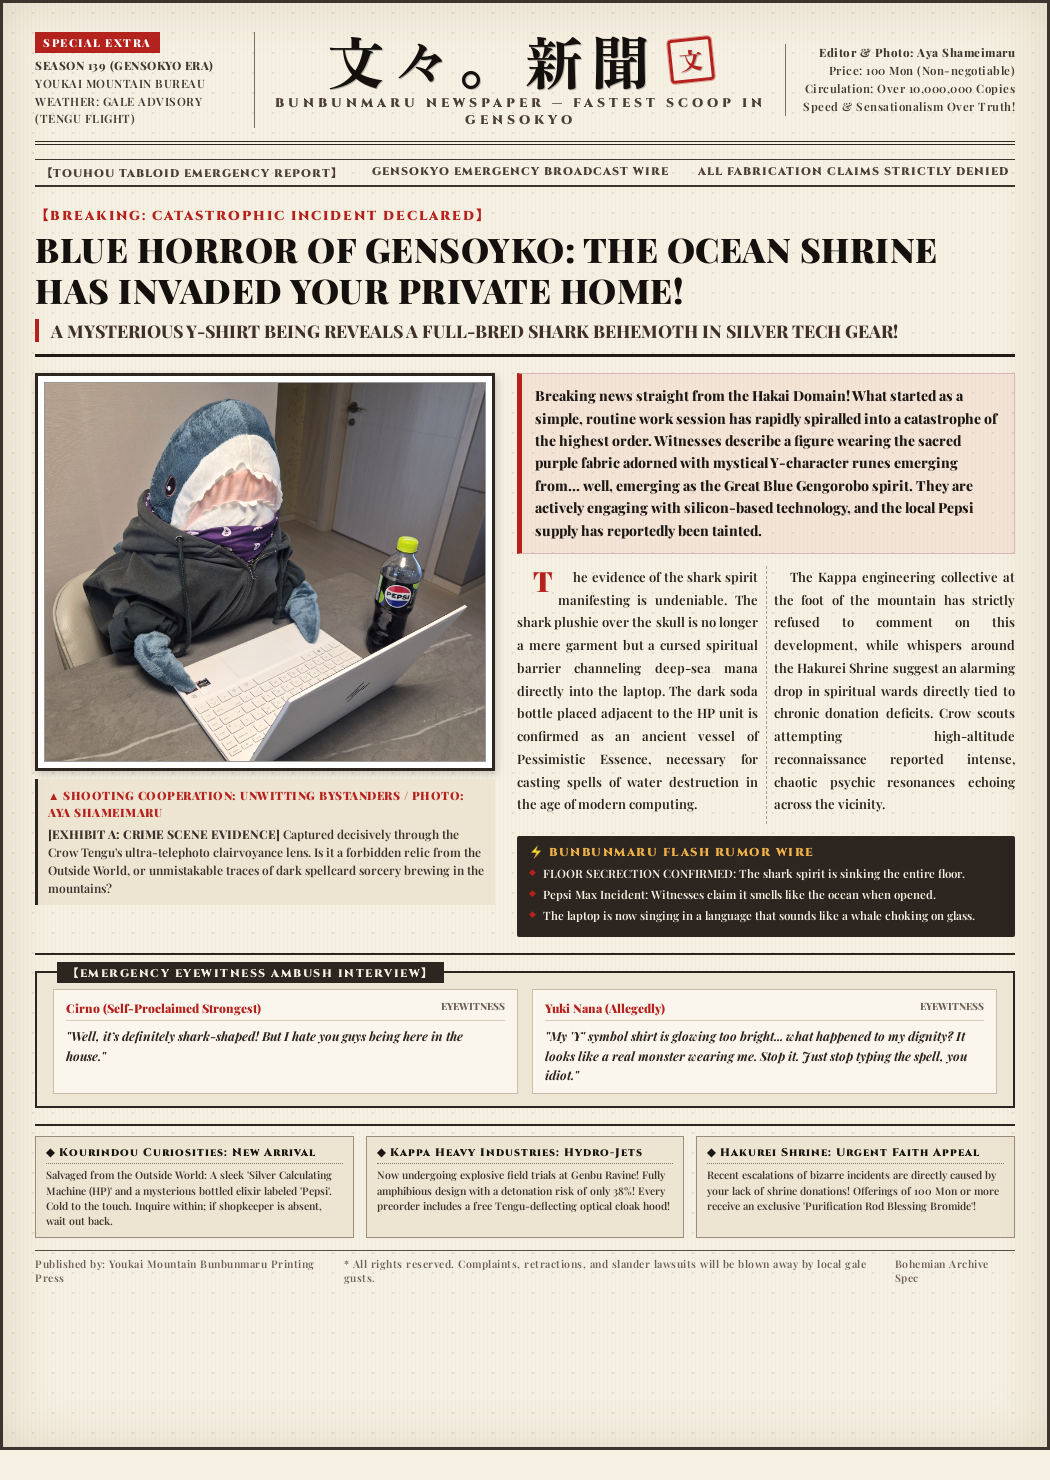
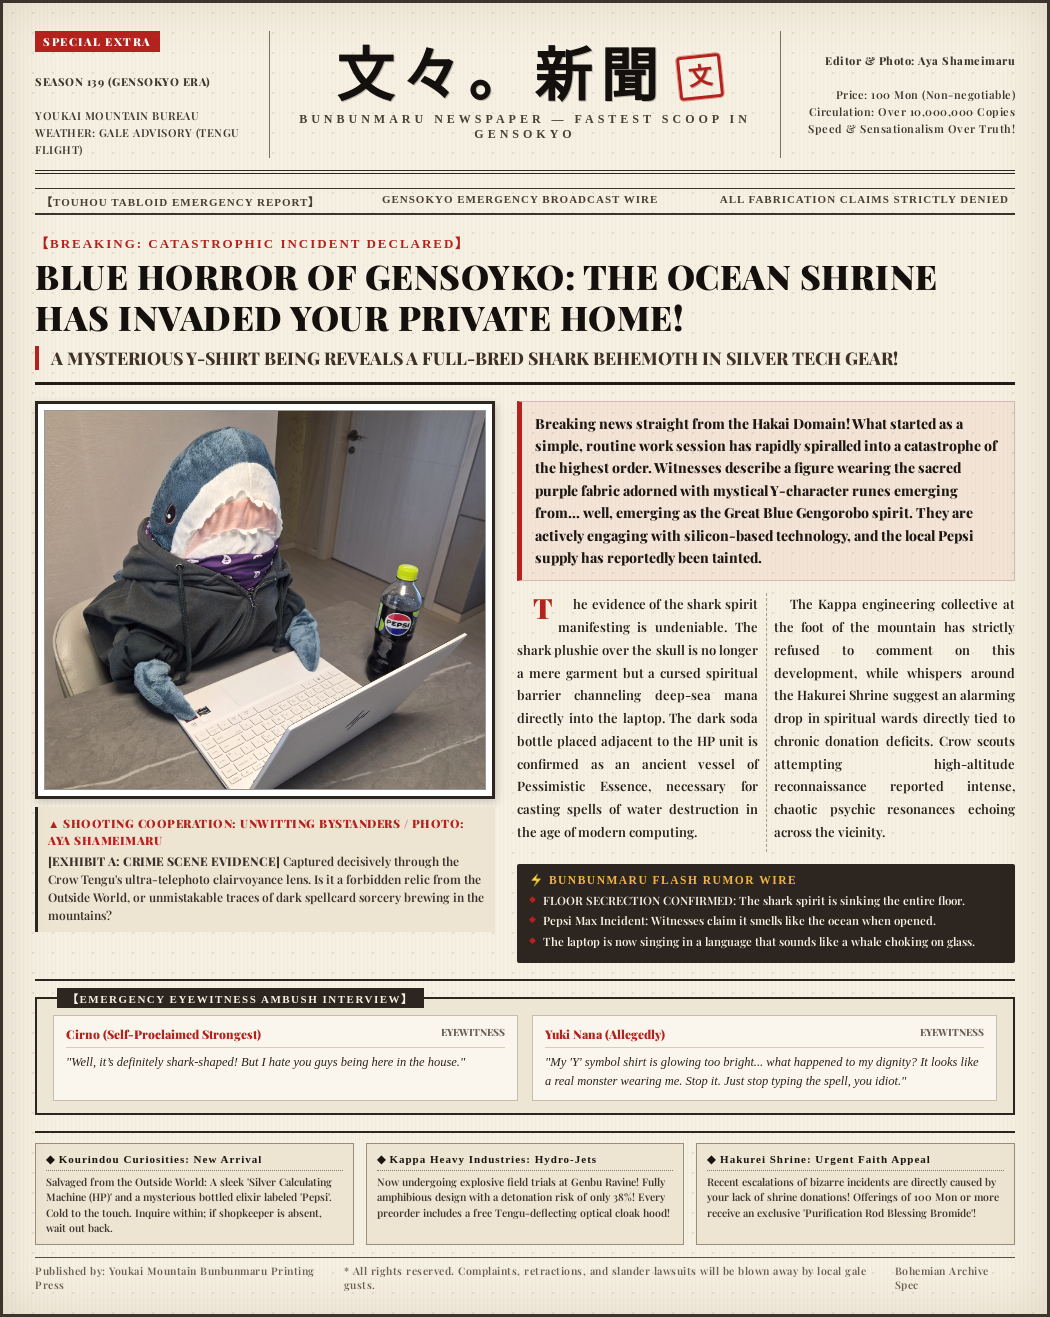
fix(layout): mathematically balance masthead symmetry and auto-crop bottom void

diff --git a/press.py b/press.py
@@ -43,7 +43,6 @@ HTML_TEMPLATE = """<!DOCTYPE html>
   /* The physical newspaper broadsheet sheet */
   .newspaper {{
     width: 1050px;
-    min-height: 1450px;
     background-color: #f6f0e2;
     background-image: 
       radial-gradient(#e5dbcb 1px, transparent 1px),
@@ -70,23 +69,27 @@ HTML_TEMPLATE = """<!DOCTYPE html>
     padding-bottom: 12px;
     margin-bottom: 14px;
     display: grid;
-    grid-template-columns: 220px 1fr 230px;
-    align-items: center;
+    grid-template-columns: 235px 1fr 235px;
+    align-items: stretch;
     gap: 12px;
   }}
 
   .masthead-meta-left {{
-    font-size: 11.5px;
+    font-size: 11px;
     line-height: 1.55;
     border-right: 1px solid #7c6f64;
-    padding-right: 10px;
+    padding-right: 12px;
     color: #3f3630;
     text-transform: uppercase;
     letter-spacing: 0.5px;
+    display: flex;
+    flex-direction: column;
+    justify-content: center;
   }}
 
   .masthead-meta-left .issue-tag {{
     display: inline-block;
+    align-self: flex-start;
     background-color: #b5221d;
     color: #fff;
     font-weight: 900;
@@ -97,6 +100,10 @@ HTML_TEMPLATE = """<!DOCTYPE html>
   }}
 
   .masthead-center {{
+    display: flex;
+    flex-direction: column;
+    align-items: center;
+    justify-content: center;
     text-align: center;
   }}
 
@@ -112,6 +119,7 @@ HTML_TEMPLATE = """<!DOCTYPE html>
     align-items: center;
     justify-content: center;
     gap: 12px;
+    margin-left: 8px;
   }}
 
   .tengu-seal {{
@@ -134,7 +142,7 @@ HTML_TEMPLATE = """<!DOCTYPE html>
 
   .masthead-subtitle {{
     font-family: 'Cinzel', serif;
-    font-size: 12.5px;
+    font-size: 12px;
     letter-spacing: 4px;
     font-weight: 900;
     margin-top: 6px;
@@ -142,13 +150,16 @@ HTML_TEMPLATE = """<!DOCTYPE html>
   }}
 
   .masthead-meta-right {{
-    font-size: 11.5px;
+    font-size: 11px;
     line-height: 1.55;
     border-left: 1px solid #7c6f64;
     padding-left: 12px;
     color: #3f3630;
     text-align: right;
     letter-spacing: 0.5px;
+    display: flex;
+    flex-direction: column;
+    justify-content: center;
   }}
 
   .masthead-bar {{
@@ -629,12 +640,28 @@ def render_newspaper(
                 "--headless",
                 "--disable-gpu",
                 "--hide-scrollbars",
-                "--window-size=1050,1480",
+                "--window-size=1050,1600",
                 f"--screenshot={abs_png_path}",
                 f"file://{abs_html_path}",
             ]
             res_png = subprocess.run(cmd_png, capture_output=True, text=True)
             if res_png.returncode == 0 and os.path.exists(abs_png_path):
+                # Auto-crop cleanly to the exact bottom border of the newspaper
+                try:
+                    from PIL import Image
+                    import numpy as np
+                    im = Image.open(abs_png_path)
+                    arr = np.array(im)
+                    # Find bottom border: dark row of 3px solid #3c342d border
+                    for y in range(im.height - 1, 100, -1):
+                        row = arr[y, 100:950, :3]
+                        if (row < 80).all(axis=-1).mean() > 0.7:
+                            cropped = im.crop((0, 0, 1050, y + 1))
+                            cropped.save(abs_png_path)
+                            print(f"📐 Cleanly aligned & cropped newspaper to: {cropped.size[0]}x{cropped.size[1]}px")
+                            break
+                except Exception as e:
+                    pass
                 print(f"📸 Exported Front-Page PNG: {abs_png_path}")
             else:
                 print(f"⚠ PNG export issue: {res_png.stderr}")
